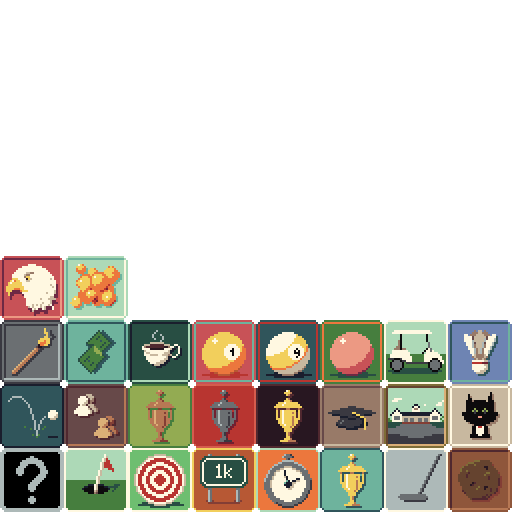
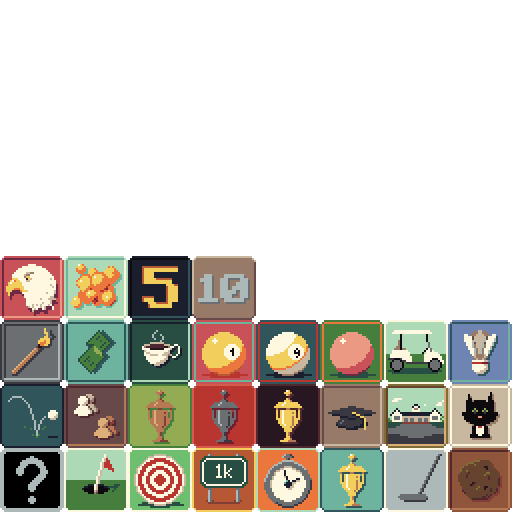
...

Changed region(s): [[0.25, 0.5, 0.5, 0.625]]

diff --git a/samples/golf/src/golf/MenuCreation.cpp b/samples/golf/src/golf/MenuCreation.cpp
@@ -3136,7 +3136,7 @@ void MenuState::addCourseSelectButtons()
     buttonEnt.addComponent<cro::Sprite>() = m_sprites[SpriteID::NextCourse];
     buttonEnt.addComponent<cro::SpriteAnimation>();
     buttonEnt.addComponent<cro::CommandTarget>().ID = CommandID::Menu::UIElement | CommandID::Menu::CourseSelect;
-    buttonEnt.addComponent<UIElement>().absolutePosition = { 62.f, 45.f };
+    buttonEnt.addComponent<UIElement>().absolutePosition = { 63.f, 45.f };
     buttonEnt.getComponent<UIElement>().relativePosition = LobbyBackgroundPosition;
     buttonEnt.getComponent<UIElement>().depth = 0.01f;
     bounds = buttonEnt.getComponent<cro::Sprite>().getTextureBounds();
@@ -3181,7 +3181,7 @@ void MenuState::addCourseSelectButtons()
     buttonEnt.addComponent<cro::Sprite>() = m_sprites[SpriteID::NextCourse];
     buttonEnt.addComponent<cro::SpriteAnimation>();
     buttonEnt.addComponent<cro::CommandTarget>().ID = CommandID::Menu::UIElement | CommandID::Menu::CourseSelect;
-    buttonEnt.addComponent<UIElement>().absolutePosition = { 62.f, -31.f };
+    buttonEnt.addComponent<UIElement>().absolutePosition = { 63.f, -31.f };
     buttonEnt.getComponent<UIElement>().relativePosition = LobbyBackgroundPosition;
     buttonEnt.getComponent<UIElement>().depth = 0.01f;
     bounds = buttonEnt.getComponent<cro::Sprite>().getTextureBounds();

diff --git a/samples/golf/src/AchievementStrings.hpp b/samples/golf/src/AchievementStrings.hpp
@@ -178,8 +178,8 @@ static const std::array<std::pair<std::string, bool>, AchievementID::Count> Achi
     std::make_pair("Get 18 Birdies", false),
     std::make_pair("Get an Eagle", false),
     std::make_pair("Hit the camera drone with a ball", false),
-    std::make_pair("Take five gimmies under the leather", false),
-    std::make_pair("Take ten gimmies under the putter", false),
+    std::make_pair("Take five gimmies inside the leather", false),
+    std::make_pair("Take ten gimmies inside the putter", false),
 };
 
 //assuming tropies load correctly they are
@@ -302,8 +302,8 @@ static const std::array<std::string, StatID::Count> StatLabels =
     "Birdies scored",
     "Eagles scored",
     "Holes in one",
-    "Gimmies taken under the leather",
-    "Gimmies take under the putter"
+    "Gimmies taken inside the leather",
+    "Gimmies taken inside the putter"
 };
 
 struct StatType final

diff --git a/samples/golf/src/GolfGame.cpp b/samples/golf/src/GolfGame.cpp
@@ -399,6 +399,15 @@ bool GolfGame::initialise()
             {
                 cro::Util::String::parseURL("https://fallahn.itch.io/vga-golf");
             }
+            ImGui::NewLine();
+            ImGui::NewLine();
+            ImGui::NewLine();
+            ImGui::NewLine();
+            ImGui::NewLine();
+            ImGui::NewLine();
+            ImGui::NewLine();
+            ImGui::NewLine();
+            ImGui::Text("In memory of Liesbeth Penning");
         });
 
     getWindow().setLoadingScreen<LoadingScreen>(m_sharedData);

diff --git a/samples/golf/src/golf/GolfSoundDirector.cpp b/samples/golf/src/golf/GolfSoundDirector.cpp
@@ -180,7 +180,7 @@ void GolfSoundDirector::handleMessage(const cro::Message& msg)
         {
         default: break;
         case GolfEvent::Gimme:
-            if (cro::Util::Random::value(0, 2) != 0)
+            //if (cro::Util::Random::value(0, 2) != 0)
             {
                 playSoundDelayed(AudioID::Gimme, data.position, 0.6f, 1.f, MixerChannel::Voice);
             }
